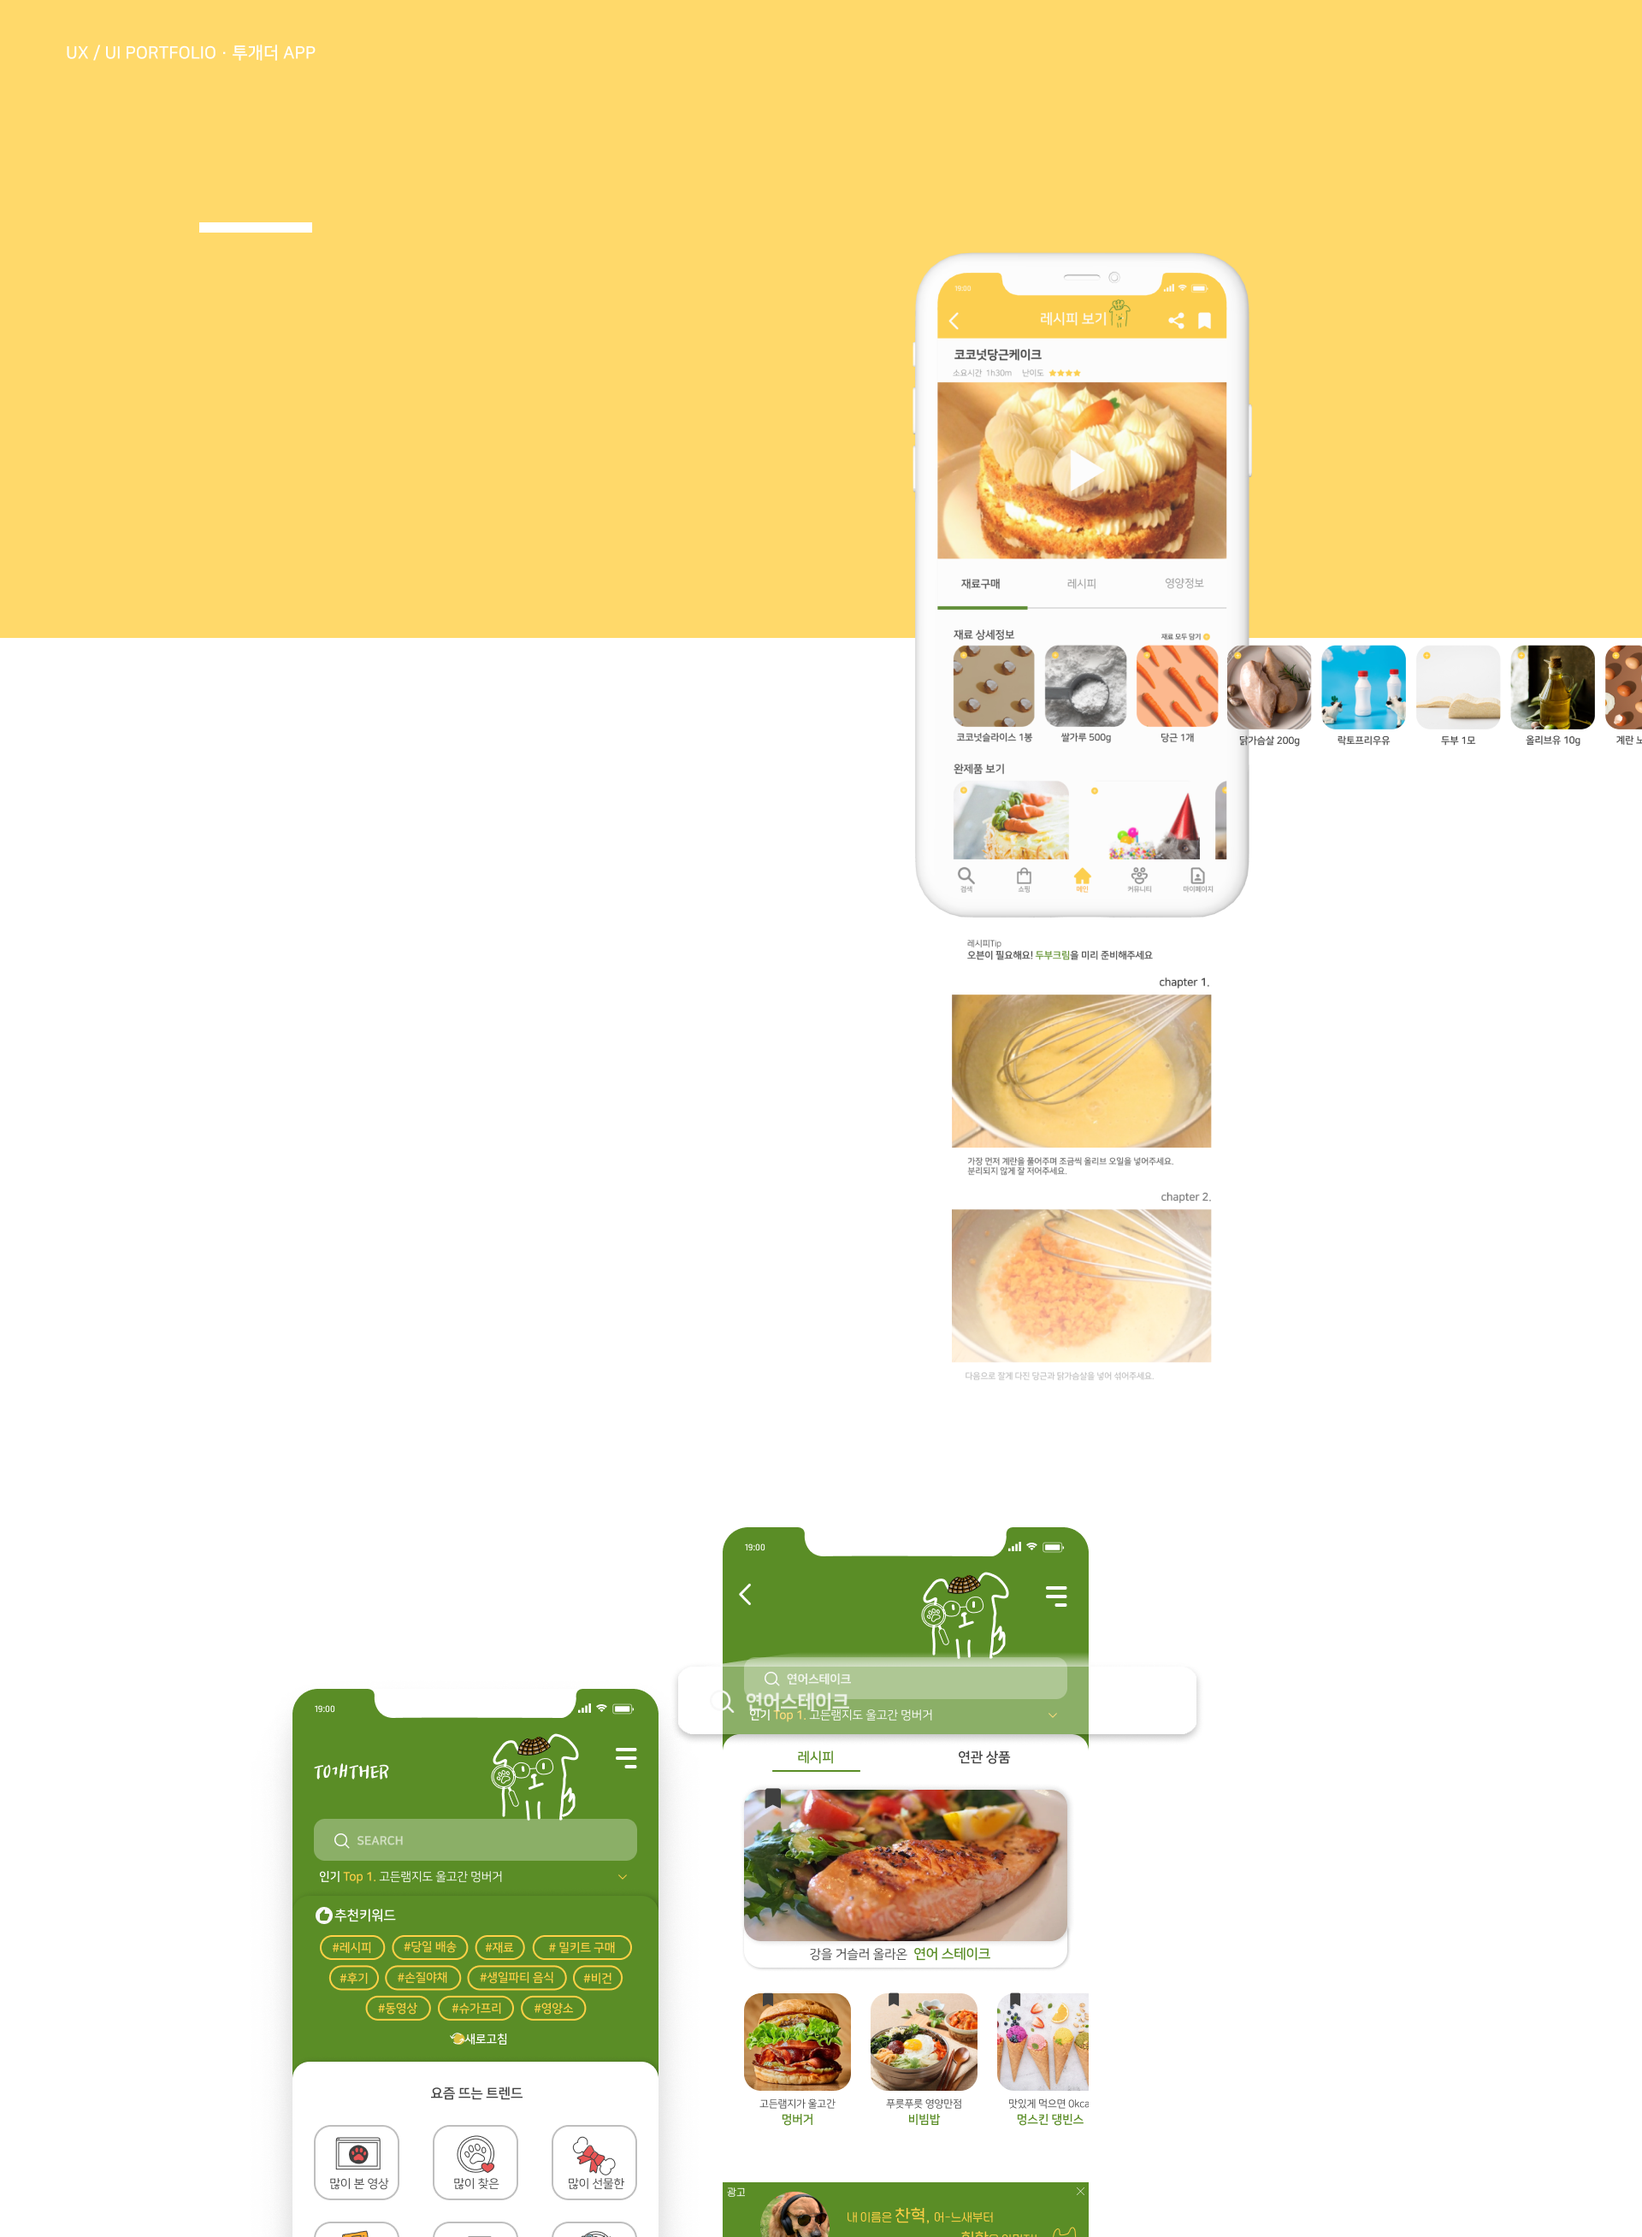
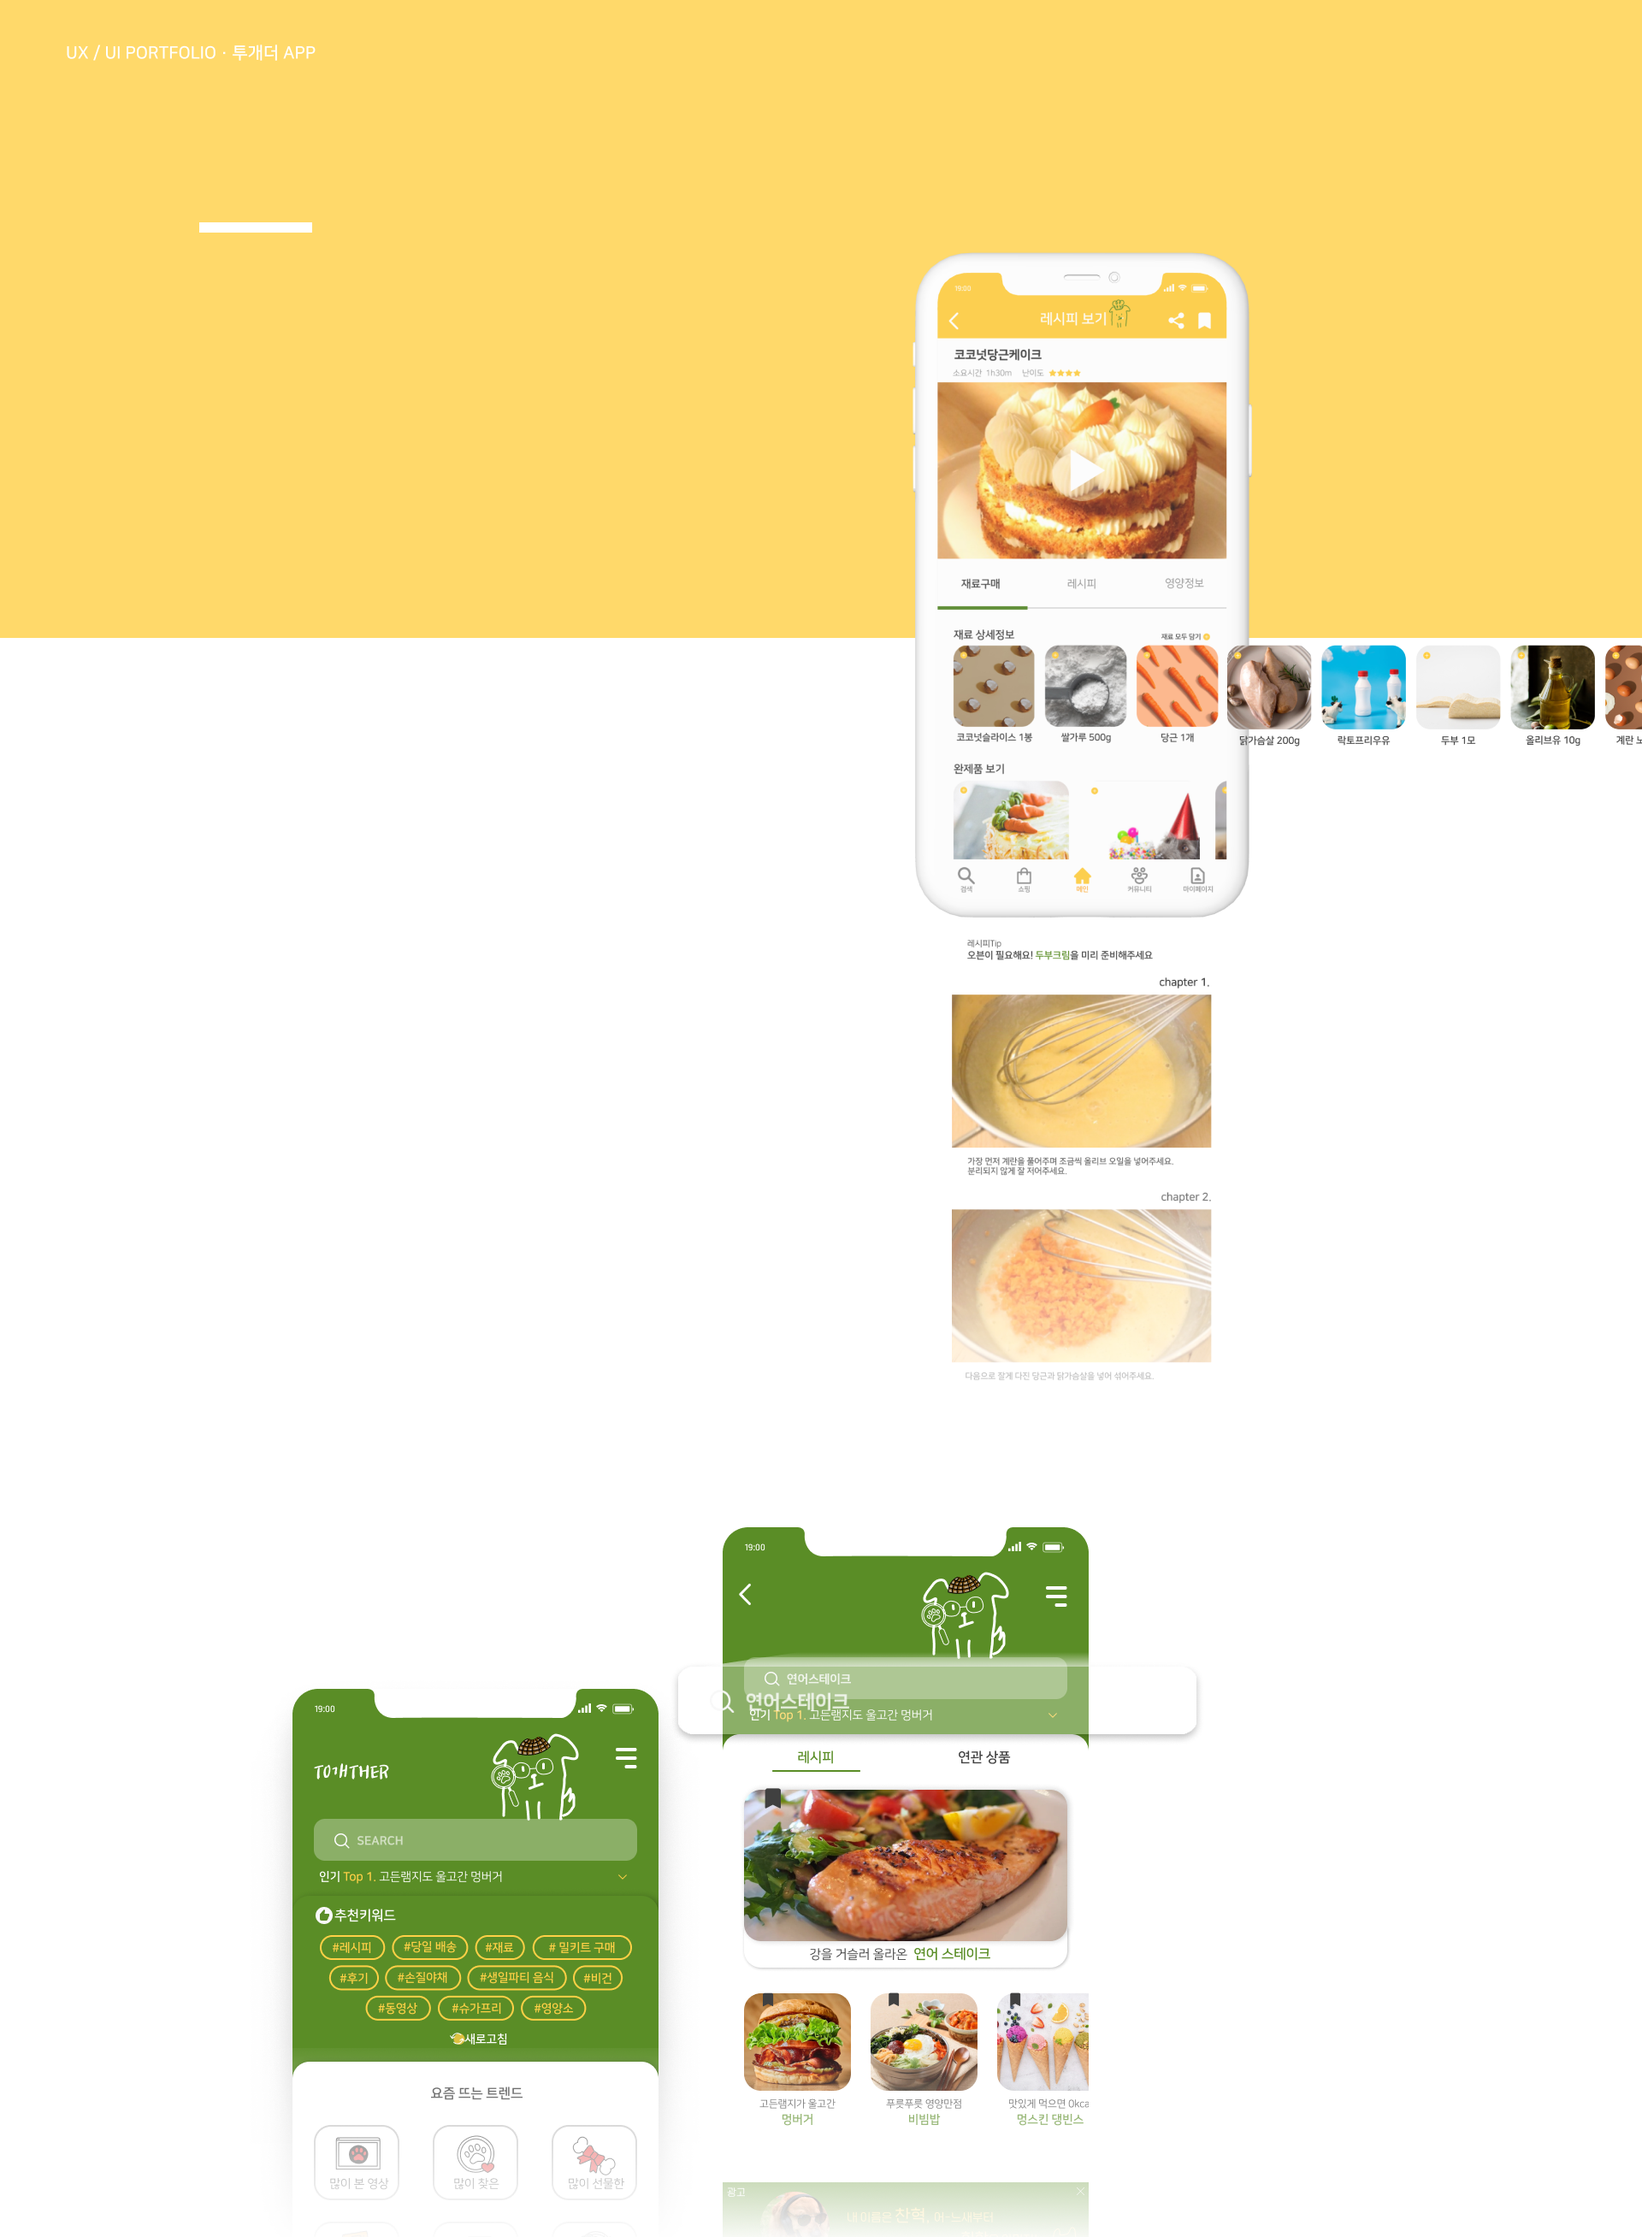
Add files via upload

diff --git a/docs/index.html b/docs/index.html
@@ -6,7 +6,9 @@
   <meta http-equiv="X-UA-Compatible" content="IE=edge">
   <meta name="viewport" content="width=device-width, initial-scale=1.0">
   <title>모바일테스트</title>
-
+  <!--제이쿼리-->
+  <script src="https://cdnjs.cloudflare.com/ajax/libs/jquery/3.6.0/jquery.min.js"></script>
+  <script src="https://cdnjs.cloudflare.com/ajax/libs/jquery.imagesloaded/4.1.4/imagesloaded.pkgd.min.js"></script>
   <!--테일윈드-->
   <link rel="stylesheet" href="https://cdnjs.cloudflare.com/ajax/libs/tailwindcss/2.2.19/tailwind.min.css">
   <!--애니메이션-->
@@ -119,9 +121,9 @@
       <img class="" src="https://cdn.jsdelivr.net/gh/solmopark/mobile/docs/mobile_img/board_1.png" alt="" style="">
 
       <!--카드-->
-      <img class="absolute" src="https://cdn.jsdelivr.net/gh/solmopark/mobile/docs/mobile_img/board_card1.png" alt="" style="top:22%; left:30%;" data-aos-offset="500" data-aos="zoom-out-right">
-      <img class="absolute" src="https://cdn.jsdelivr.net/gh/solmopark/mobile/docs/mobile_img/board_card2.png" alt="" style="top:22%; right:27.5%;" data-aos-offset="500" data-aos-delay="200" data-aos="zoom-out-right">
-      <img class="absolute" src="https://cdn.jsdelivr.net/gh/solmopark/mobile/docs/mobile_img/board_card3.png" alt="" style="top:22%; right:5%;" data-aos-offset="500" data-aos-delay="400" data-aos="zoom-out-right">
+      <img class="absolute" src="https://cdn.jsdelivr.net/gh/solmopark/mobile/docs/mobile_img/board_card1.png" alt="" style="top:22%; left:30%;" data-aos-offset="500" data-aos="fade-right"data-aos-easing="linear"data-aos-duration="1000">
+      <img class="absolute" src="https://cdn.jsdelivr.net/gh/solmopark/mobile/docs/mobile_img/board_card2.png" alt="" style="top:22%; right:27.5%;" data-aos-offset="500" data-aos-delay="200" data-aos="fade-right"data-aos-easing="linear"data-aos-duration="1000">
+      <img class="absolute" src="https://cdn.jsdelivr.net/gh/solmopark/mobile/docs/mobile_img/board_card3.png" alt="" style="top:22%; right:5%;" data-aos-offset="500" data-aos-delay="400"data-aos="fade-right"data-aos-easing="linear"data-aos-duration="1000">
 
     </div>
   </section>
@@ -143,7 +145,7 @@
       <img class="absolute" src="https://cdn.jsdelivr.net/gh/solmopark/mobile/docs/mobile_img/BD_T2.png" alt="" style="top:51%; left:19%;" data-aos="fade-up" data-aos-anchor-placement="center">
 
       <!-- 특-2 -->
-      <img class="absolute" src="https://cdn.jsdelivr.net/gh/solmopark/mobile/docs/mobile_img/BD_P3.png" alt="" style="bottom:1%; left:0.5%;" data-aos="zoom-in" data-aos-duration="1500" data-aos-delay="500">
+      <img class="absolute" src="https://cdn.jsdelivr.net/gh/solmopark/mobile/docs/mobile_img/BD_P3.png" alt="" style="bottom:1%; left:0.5%;" data-aos="fade-in" data-aos-duration="1500" data-aos-delay="500">
 
     </div>
   </section>

diff --git a/docs/index.css b/docs/index.css
@@ -178,3 +178,24 @@ html {
       stroke: rgba(64,64,64,0);
     }
   }
+  /* ===== Scrollbar CSS ===== */
+  /* Firefox */
+  * {
+    scrollbar-width: auto;
+    scrollbar-color: #fcc21b #ffffff;
+  }
+
+  /* Chrome, Edge, and Safari */
+  *::-webkit-scrollbar {
+    width: 16px;
+  }
+
+  *::-webkit-scrollbar-track {
+    background: #ffffff;
+  }
+
+  *::-webkit-scrollbar-thumb {
+    background-color: #fcc21b;
+    border-radius: 10px;
+    border: 3px outset #ffffff;
+  }

diff --git a/docs/index.js b/docs/index.js
@@ -1,2 +1,8 @@
-new  AOS.init();
+console.clear();
+
+$('body').imagesLoaded(function() {
+  $('.loading').remove();
+  AOS.init();
+});
+
 new WOW().init();
